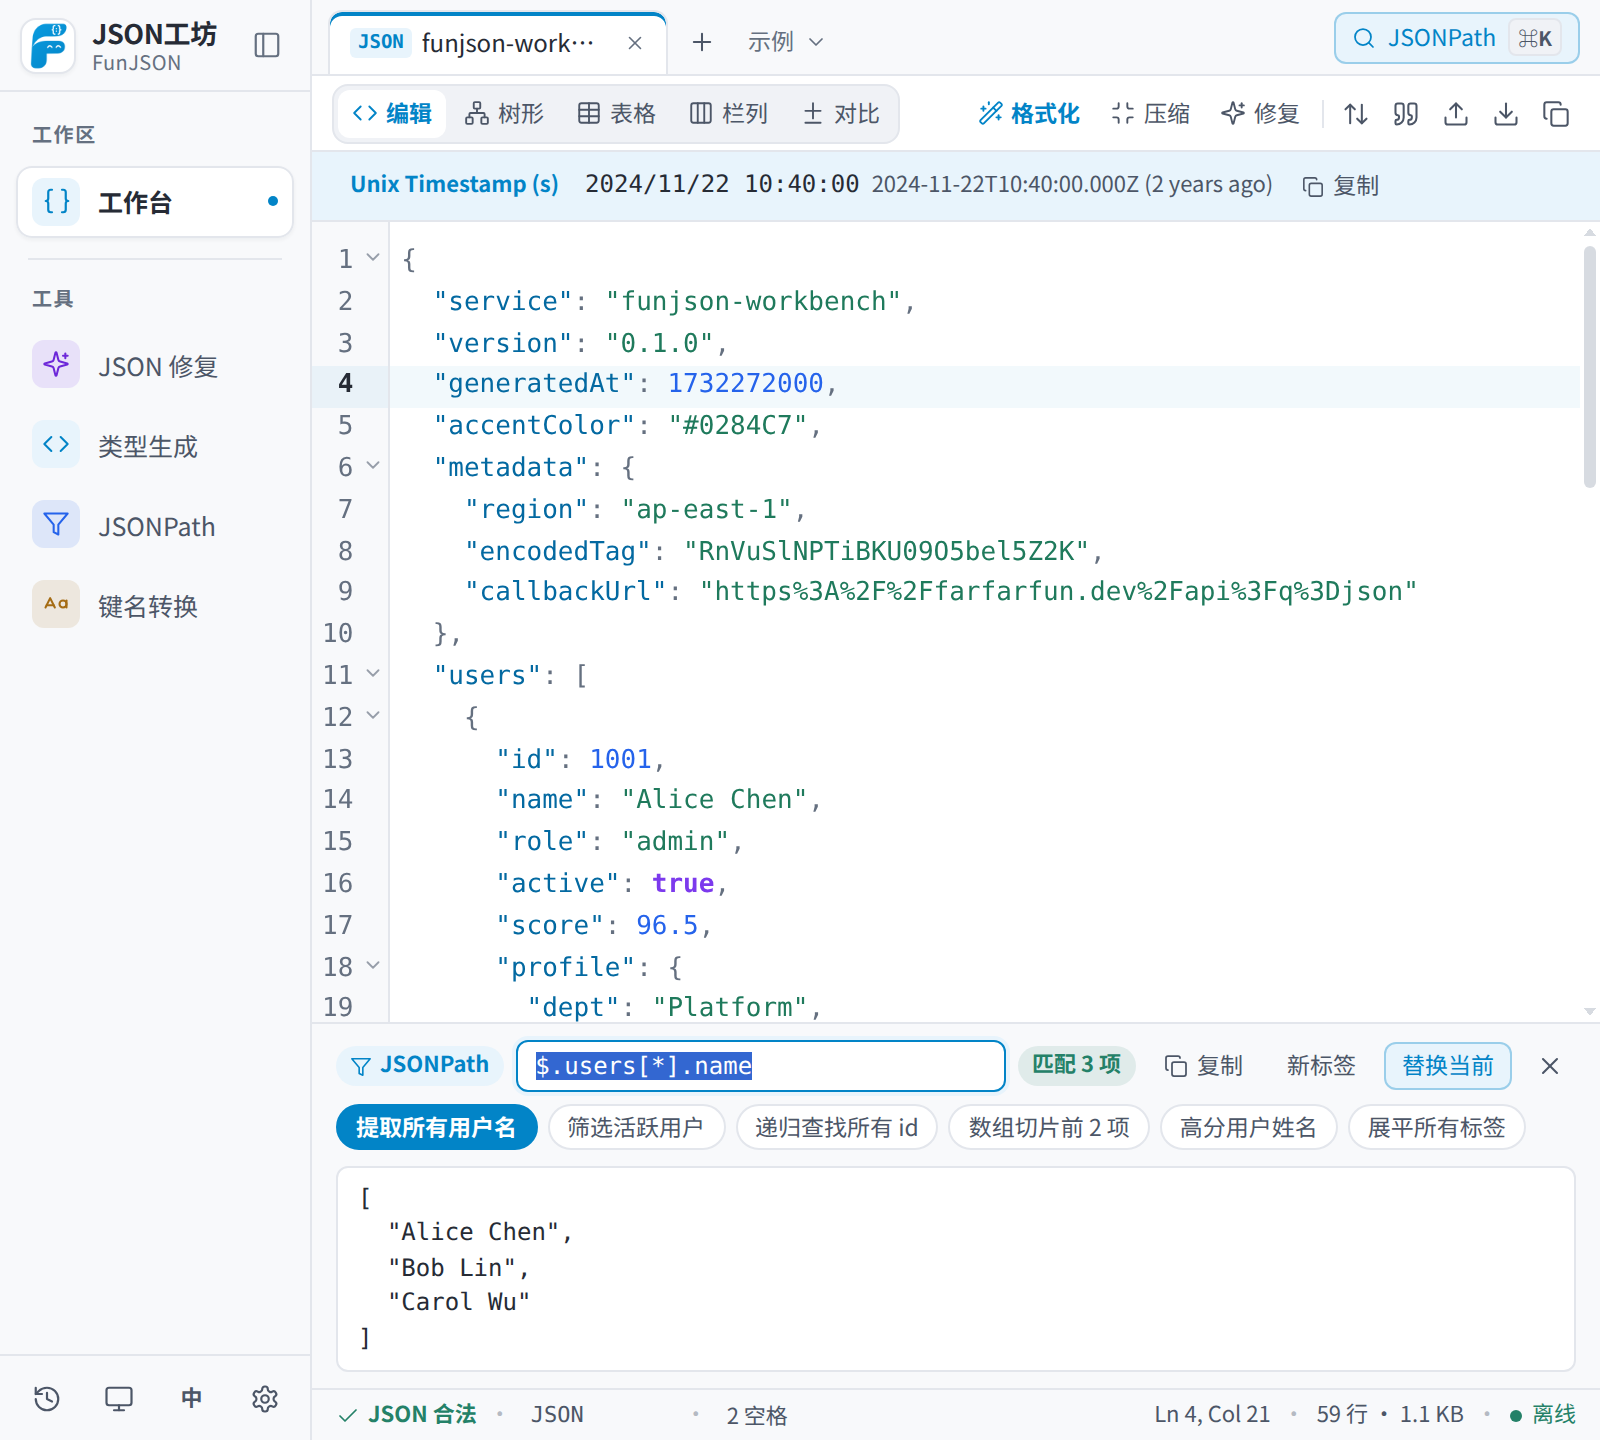
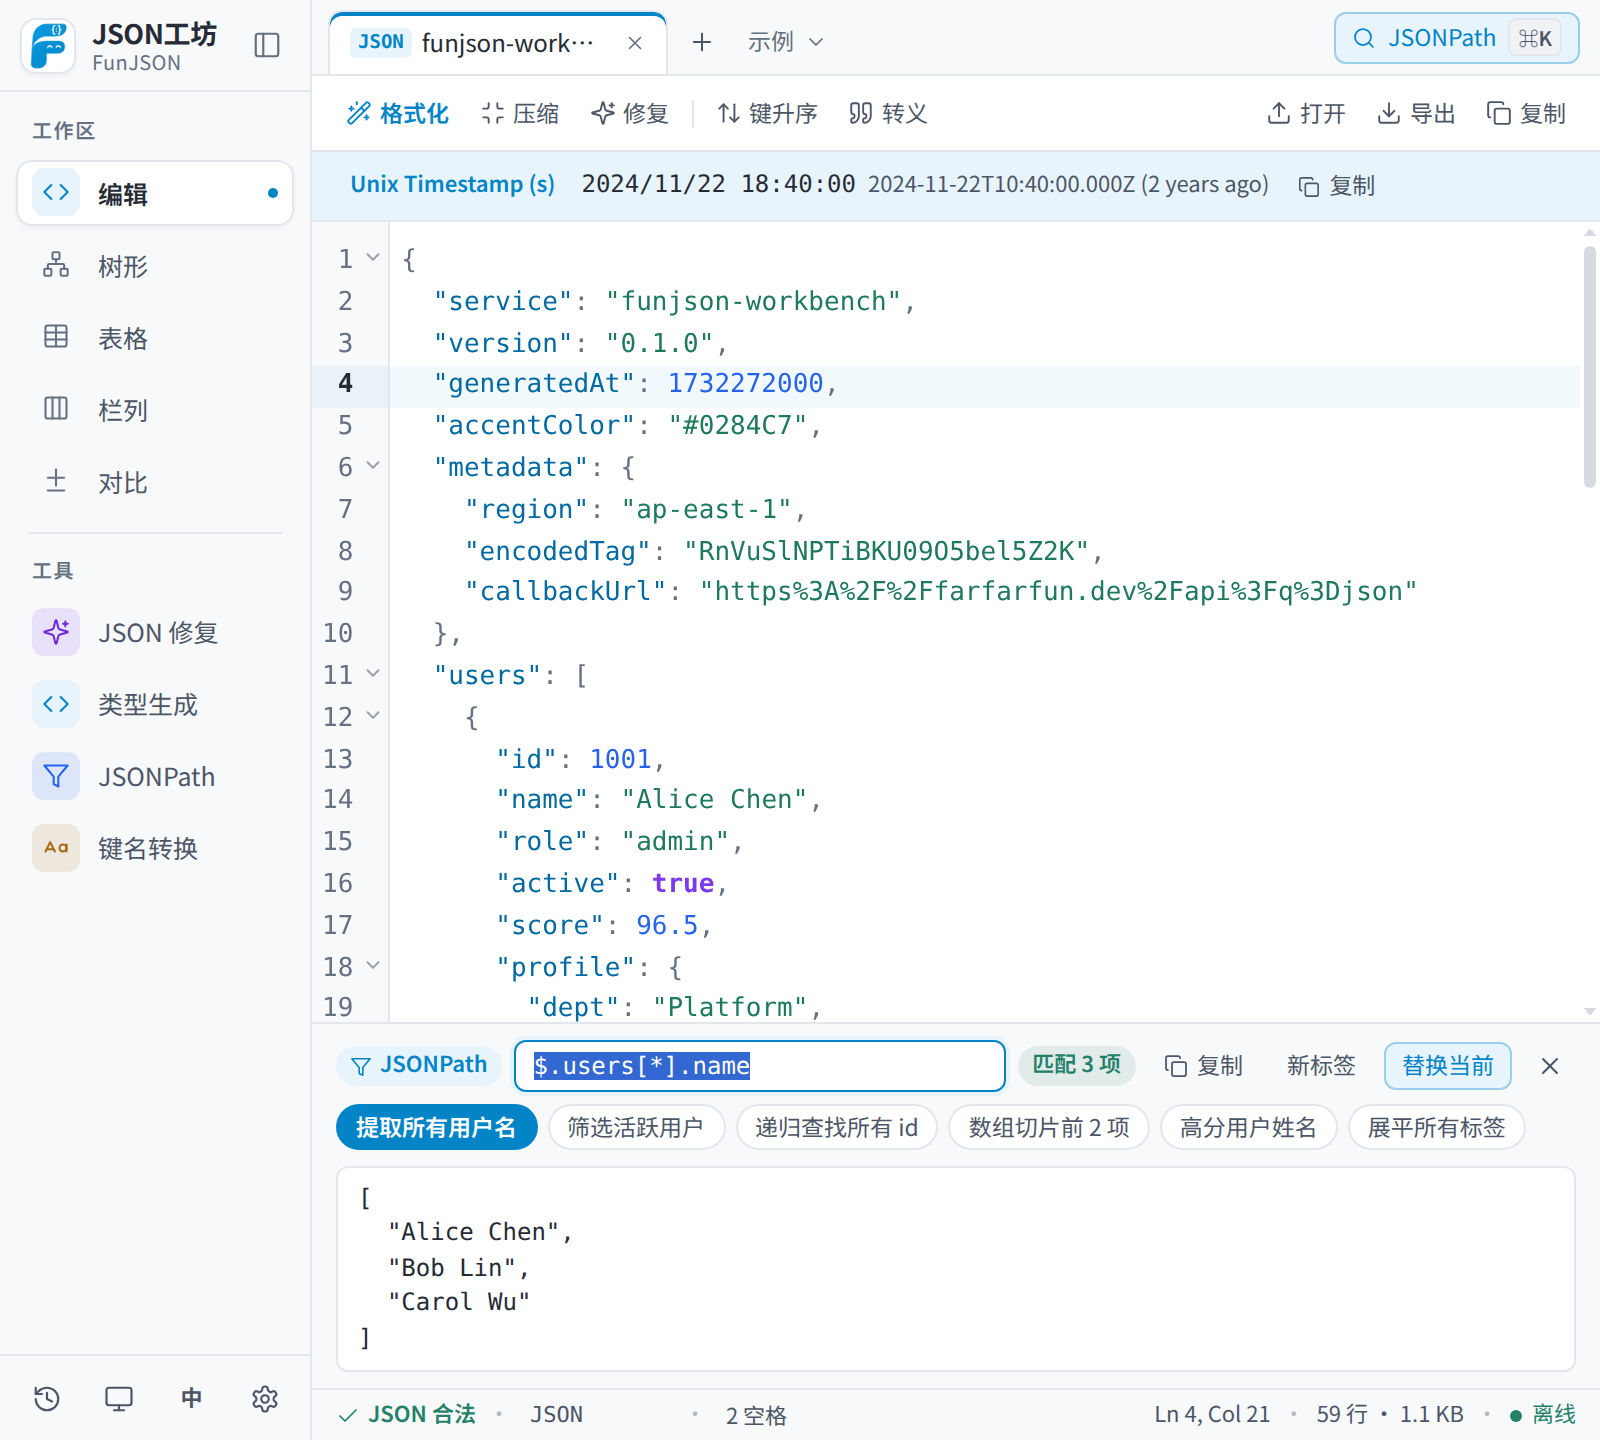
refactor: expand all 5 workbench views directly in left workspace sidebar

diff --git a/src/App.vue b/src/App.vue
@@ -467,17 +467,13 @@ function toggleLocale() {
   workspace.value.settings.locale = workspace.value.settings.locale === 'zh-CN' ? 'en' : 'zh-CN'
 }
 
-function selectWorkbench() {
-  mobileNavOpen.value = false
-  workspace.value.activeTool = null
-}
-
 function selectTool(id: ToolId) {
   mobileNavOpen.value = false
   workspace.value.activeTool = id
 }
 
 function setViewMode(mode: ViewMode) {
+  mobileNavOpen.value = false
   workspace.value.activeTool = null
   workspace.value.viewMode = mode
 }
@@ -648,20 +644,22 @@ onBeforeUnmount(() => {
         </div>
 
         <button
+          v-for="tab in VIEW_TABS"
+          :key="tab.id"
           type="button"
           class="nav-link"
-          :class="{ active: !inToolbox }"
-          data-testid="ws-workbench-btn"
-          :title="locale === 'en' ? 'Workbench' : '工作台'"
-          @click="selectWorkbench"
+          :class="{ active: !inToolbox && workspace.viewMode === tab.id }"
+          :data-testid="`view-${tab.id}`"
+          :title="t(locale, `nav.${tab.id}`)"
+          @click="setViewMode(tab.id)"
         >
           <span class="nav-icon">
-            <AppIcon name="braces" :size="15" />
+            <AppIcon :name="tab.icon" :size="14" />
           </span>
           <span v-show="!sidebarCollapsed" class="nav-label">
-            {{ locale === 'en' ? 'Workbench' : '工作台' }}
+            {{ t(locale, `nav.${tab.id}`) }}
           </span>
-          <span v-show="!sidebarCollapsed && !inToolbox" class="nav-active-dot" />
+          <span v-show="!sidebarCollapsed && !inToolbox && workspace.viewMode === tab.id" class="nav-active-dot" />
         </button>
 
         <div class="nav-divider" />
@@ -842,21 +840,6 @@ onBeforeUnmount(() => {
 
       <!-- Document Action Bar (Workbench only) -->
       <div v-if="!inToolbox" class="action-bar">
-        <div class="seg-control view-switch" role="tablist">
-          <button
-            v-for="tab in VIEW_TABS"
-            :key="tab.id"
-            type="button"
-            class="seg-btn"
-            :class="{ active: workspace.viewMode === tab.id }"
-            :data-testid="`view-${tab.id}`"
-            @click="setViewMode(tab.id)"
-          >
-            <AppIcon :name="tab.icon" :size="13" />
-            <span>{{ t(locale, `nav.${tab.id}`) }}</span>
-          </button>
-        </div>
-
         <div class="action-buttons">
           <button
             type="button"
@@ -890,57 +873,60 @@ onBeforeUnmount(() => {
             <span>{{ locale === 'en' ? 'Repair' : '修复' }}</span>
           </button>
 
-          <span class="toolbar-sep" />
+          <span v-if="isJsonLike" class="toolbar-sep" />
 
           <button
             v-if="isJsonLike"
             type="button"
-            class="ghost-btn icon-only"
+            class="ghost-btn xs"
             data-testid="btn-sort"
             :title="sortOrder === 'asc' ? t(locale, 'action.sortAsc') : t(locale, 'action.sortDesc')"
-            :aria-label="sortOrder === 'asc' ? t(locale, 'action.sortAsc') : t(locale, 'action.sortDesc')"
             @click="handleSortKeys"
           >
-            <AppIcon name="arrow-up-down" :size="14" />
+            <AppIcon name="arrow-up-down" :size="13" />
+            <span>{{ sortOrder === 'asc' ? t(locale, 'action.sortAsc') : t(locale, 'action.sortDesc') }}</span>
           </button>
           <button
             v-if="isJsonLike"
             type="button"
-            class="ghost-btn icon-only"
+            class="ghost-btn xs"
             :class="{ active: escapedState }"
             data-testid="btn-escape"
             :title="escapedState ? t(locale, 'action.unescape') : t(locale, 'action.escape')"
-            :aria-label="escapedState ? t(locale, 'action.unescape') : t(locale, 'action.escape')"
             @click="handleToggleEscape"
           >
-            <AppIcon name="quote" :size="14" />
+            <AppIcon name="quote" :size="13" />
+            <span>{{ escapedState ? t(locale, 'action.unescape') : t(locale, 'action.escape') }}</span>
           </button>
+        </div>
+
+        <div class="action-buttons">
           <button
             type="button"
-            class="ghost-btn icon-only"
+            class="ghost-btn xs"
             :title="t(locale, 'action.open')"
-            :aria-label="t(locale, 'action.open')"
             @click="handleOpenFile"
           >
-            <AppIcon name="upload" :size="14" />
+            <AppIcon name="upload" :size="13" />
+            <span>{{ locale === 'en' ? 'Open' : '打开' }}</span>
           </button>
           <button
             type="button"
-            class="ghost-btn icon-only"
+            class="ghost-btn xs"
             :title="t(locale, 'action.save')"
-            :aria-label="t(locale, 'action.save')"
             @click="handleExportFile()"
           >
-            <AppIcon name="download" :size="14" />
+            <AppIcon name="download" :size="13" />
+            <span>{{ locale === 'en' ? 'Export' : '导出' }}</span>
           </button>
           <button
             type="button"
-            class="ghost-btn icon-only"
+            class="ghost-btn xs"
             :title="t(locale, 'action.copy')"
-            :aria-label="t(locale, 'action.copy')"
             @click="handleCopy(activeTab.content)"
           >
-            <AppIcon name="copy" :size="14" />
+            <AppIcon name="copy" :size="13" />
+            <span>{{ t(locale, 'action.copy') }}</span>
           </button>
         </div>
       </div>
@@ -1230,10 +1216,10 @@ onBeforeUnmount(() => {
 
 .nav-body {
   flex: 1;
-  padding: 12px 8px;
+  padding: 10px 8px;
   display: flex;
   flex-direction: column;
-  gap: 4px;
+  gap: 3px;
   overflow-y: auto;
 }
 
@@ -1268,7 +1254,7 @@ onBeforeUnmount(() => {
   align-items: center;
   gap: 9px;
   width: 100%;
-  height: 36px;
+  height: 33px;
   padding: 0 8px;
   border-radius: 8px;
   color: var(--text-secondary);
@@ -1278,8 +1264,8 @@ onBeforeUnmount(() => {
 }
 
 .workbench-nav.collapsed .nav-link {
-  width: 34px;
-  height: 34px;
+  width: 32px;
+  height: 32px;
   padding: 0;
   justify-content: center;
 }

diff --git a/tests/App.test.ts b/tests/App.test.ts
@@ -85,7 +85,8 @@ describe('App.vue workbench integration', () => {
   it('expands all 4 JSON tools directly in the workspace sidebar and executes them (repair, types, jsonpath, naming)', async () => {
     const wrapper = mount(App)
 
-    // All 4 tools are directly accessible in the primary sidebar without a nested toolbox layer
+    // All 5 views and 4 tools are directly accessible in the primary sidebar without nested wrappers
+    expect(wrapper.find('[data-testid="ws-workbench-btn"]').exists()).toBe(false)
     expect(wrapper.find('[data-testid="ws-toolbox-btn"]').exists()).toBe(false)
 
     // Types tool
@@ -115,8 +116,8 @@ describe('App.vue workbench integration', () => {
     expect(namingOut).toContain('"firstName"')
     expect(namingOut).toContain('"keep_raw"')
 
-    // Switch back to Workbench directly
-    await wrapper.get('[data-testid="ws-workbench-btn"]').trigger('click')
+    // Switch back to Code view directly from the sidebar
+    await wrapper.get('[data-testid="view-code"]').trigger('click')
     expect(wrapper.find('[data-testid="toolbox-view"]').exists()).toBe(false)
     expect(wrapper.find('[data-testid="code-editor-host"]').exists()).toBe(true)
 
